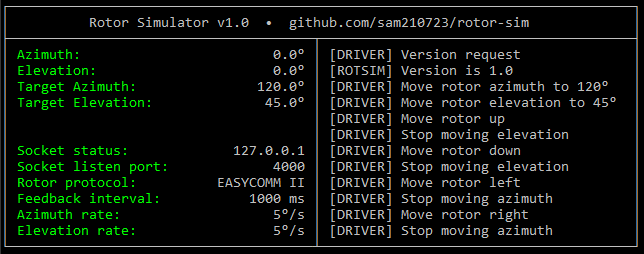
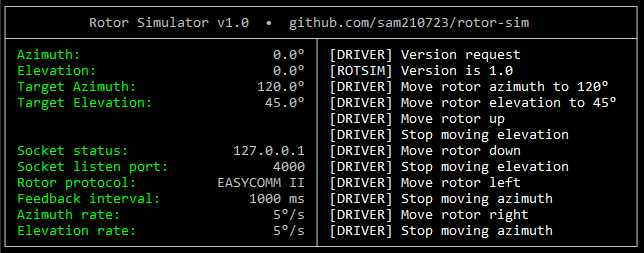
Styling

diff --git a/rotor-sim.py b/rotor-sim.py
@@ -12,10 +12,10 @@ import socket
 import threading
 
 argparser = argparse.ArgumentParser(description="Antenna rotor simulator for testing rotor driver software")
-argparser.add_argument("-p", action="store", help="Socket listen port, default 4000", default=4000)
+argparser.add_argument("-p", action="store", help="Socket listen port, default 4000", default="4000")
 argparser.add_argument("-pr", action="store", help="Rotor protocol (EASYCOMM/GS-232/SPID), default EASYCOMM", default="EASYCOMM")
-argparser.add_argument("-ar", action="store", help="Azimuth rate (deg/second), default 5", default=5)
-argparser.add_argument("-er", action="store", help="Elevation rate (deg/second), default 5", default=5)
+argparser.add_argument("-ar", action="store", help="Azimuth rate (deg/second), default 5", default="5")
+argparser.add_argument("-er", action="store", help="Elevation rate (deg/second), default 5", default="5")
 argparser.add_argument("-fi", action="store", help="rotor position feedback interval (milliseconds), default 250", default=250)
 args = argparser.parse_args()
 
@@ -263,7 +263,7 @@ def log(message):
             print_at(" ", j + 42, i + 4)
 
     for i in range(logLen):
-        print_at(logMsgs[logLen - i - 1], 42, termy-1-i)
+        print_at(Style.BRIGHT + logMsgs[logLen - i - 1] + Style.RESET_ALL, 42, termy-1-i)
 
 
 # Send data to client
